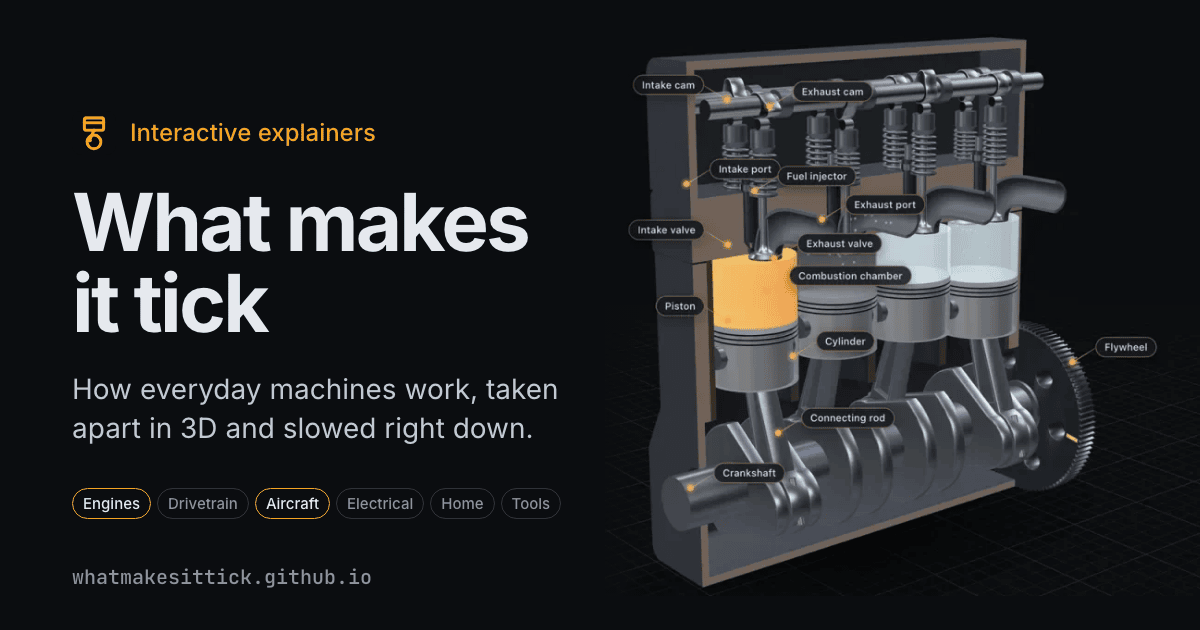
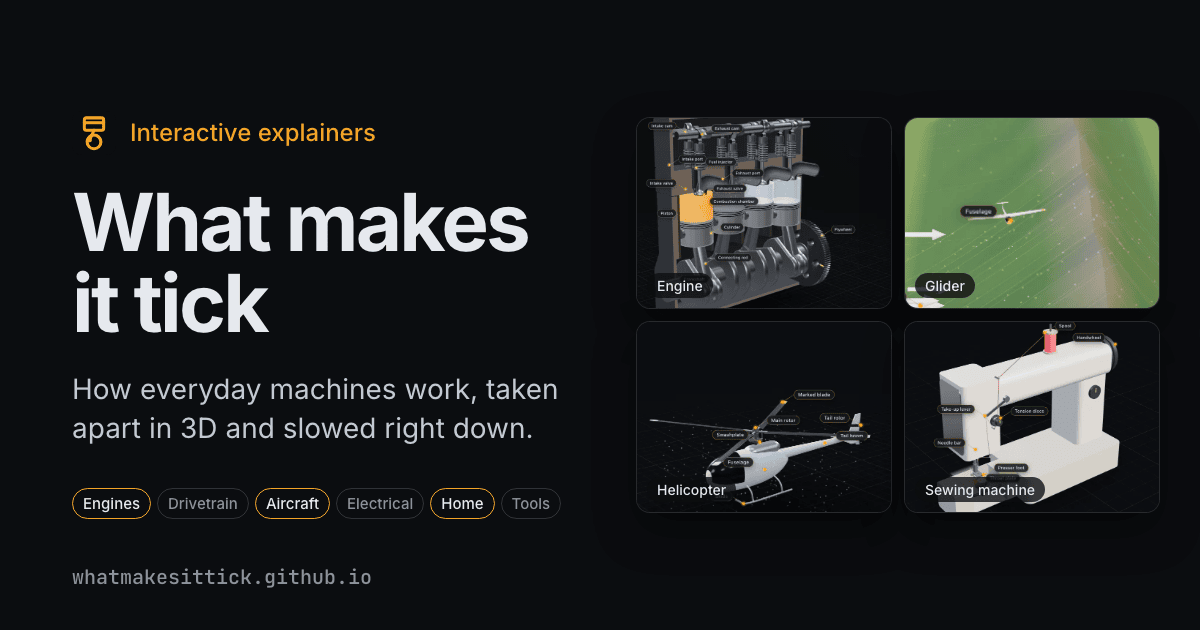
chore(site): rerender the catalogue link preview

Changed region(s): [[0.5242, 0.0603, 0.9867, 0.9349], [0.37, 0.7841, 0.4008, 0.8143], [0.0617, 0.181, 0.0925, 0.2111]]

diff --git a/scripts/cards/site.html b/scripts/cards/site.html
@@ -30,31 +30,57 @@
         -webkit-font-smoothing: antialiased;
       }
 
-      .shot {
+      .covers {
         position: absolute;
-        top: 0;
-        right: 0;
-        width: 640px;
-        height: 630px;
+        top: 117px;
+        right: 40px;
+        display: grid;
+        grid-template-columns: repeat(2, 256px);
+        grid-auto-rows: 192px;
+        gap: 12px;
+        margin: 0;
+        padding: 0;
+        list-style: none;
+      }
+
+      .cover {
+        position: relative;
         overflow: hidden;
+        border: 1px solid rgb(255 255 255 / 0.12);
+        border-radius: 14px;
+        background: var(--background);
+        box-shadow: 0 18px 40px rgb(0 0 0 / 0.45);
       }
 
-      .shot img {
+      .cover img {
         position: absolute;
-        top: -51px;
-        left: 45px;
-        width: 862px;
+        top: var(--top);
+        left: var(--left);
+        width: var(--width);
       }
 
-      .shot::after {
+      .cover.faded::after {
         content: '';
         position: absolute;
         inset: 0;
-        background:
-          radial-gradient(ellipse 160px 300px at 100% 0, var(--background) 75%, transparent),
-          linear-gradient(to right, var(--background) 20px, transparent 90px),
-          linear-gradient(to top, var(--background), transparent 40px),
-          linear-gradient(to bottom, var(--background), transparent 30px);
+        background: radial-gradient(
+          ellipse 90px 70px at 100% 0,
+          var(--background) 60%,
+          transparent
+        );
+      }
+
+      .cover span {
+        position: absolute;
+        z-index: 1;
+        bottom: 10px;
+        left: 10px;
+        padding: 4px 10px;
+        border-radius: 999px;
+        color: var(--text);
+        background: rgb(11 13 16 / 0.78);
+        font-size: 14px;
+        font-weight: 500;
       }
 
       .copy {
@@ -134,9 +160,24 @@
     </style>
   </head>
   <body>
-    <div class="shot">
-      <img src="../../explainers/engine/public/cover.webp" alt="" />
-    </div>
+    <ul class="covers">
+      <li class="cover faded" style="--width: 341px; --left: 0; --top: -46px">
+        <img src="../../explainers/engine/public/cover.webp" alt="" />
+        <span>Engine</span>
+      </li>
+      <li class="cover" style="--width: 459px; --left: -89px; --top: -44px">
+        <img src="../../explainers/glider/public/cover.webp" alt="" />
+        <span>Glider</span>
+      </li>
+      <li class="cover" style="--width: 373px; --left: 0; --top: -24px">
+        <img src="../../explainers/helicopter/public/cover.webp" alt="" />
+        <span>Helicopter</span>
+      </li>
+      <li class="cover" style="--width: 341px; --left: -7px; --top: -48px">
+        <img src="../../explainers/sewing-machine/public/cover.webp" alt="" />
+        <span>Sewing machine</span>
+      </li>
+    </ul>
     <main class="copy">
       <p class="eyebrow">
         <img src="../../public/favicon.svg" alt="" />
@@ -149,7 +190,7 @@
         <li>Drivetrain</li>
         <li class="live">Aircraft</li>
         <li>Electrical</li>
-        <li>Home</li>
+        <li class="live">Home</li>
         <li>Tools</li>
       </ul>
     </main>

diff --git a/vite/site.ts b/vite/site.ts
@@ -9,7 +9,7 @@ export const AUTHOR = { name: 'Vitalii Elenhaupt', url: 'https://github.com/veel
 export const SOCIAL_IMAGE_SIZE = { width: 1200, height: 630 } as const;
 export const SITE_SOCIAL = {
   image: 'social/og-image.png',
-  alt: 'Cutaway 3D model of an inline four engine with labelled parts, beside the title What makes it tick',
+  alt: 'Four 3D models with labelled parts in a grid, a cutaway inline four engine, a glider over a green ridge, a helicopter and a sewing machine, beside the title What makes it tick',
 } as const;
 
 export function siteUrl(path = ''): string {
